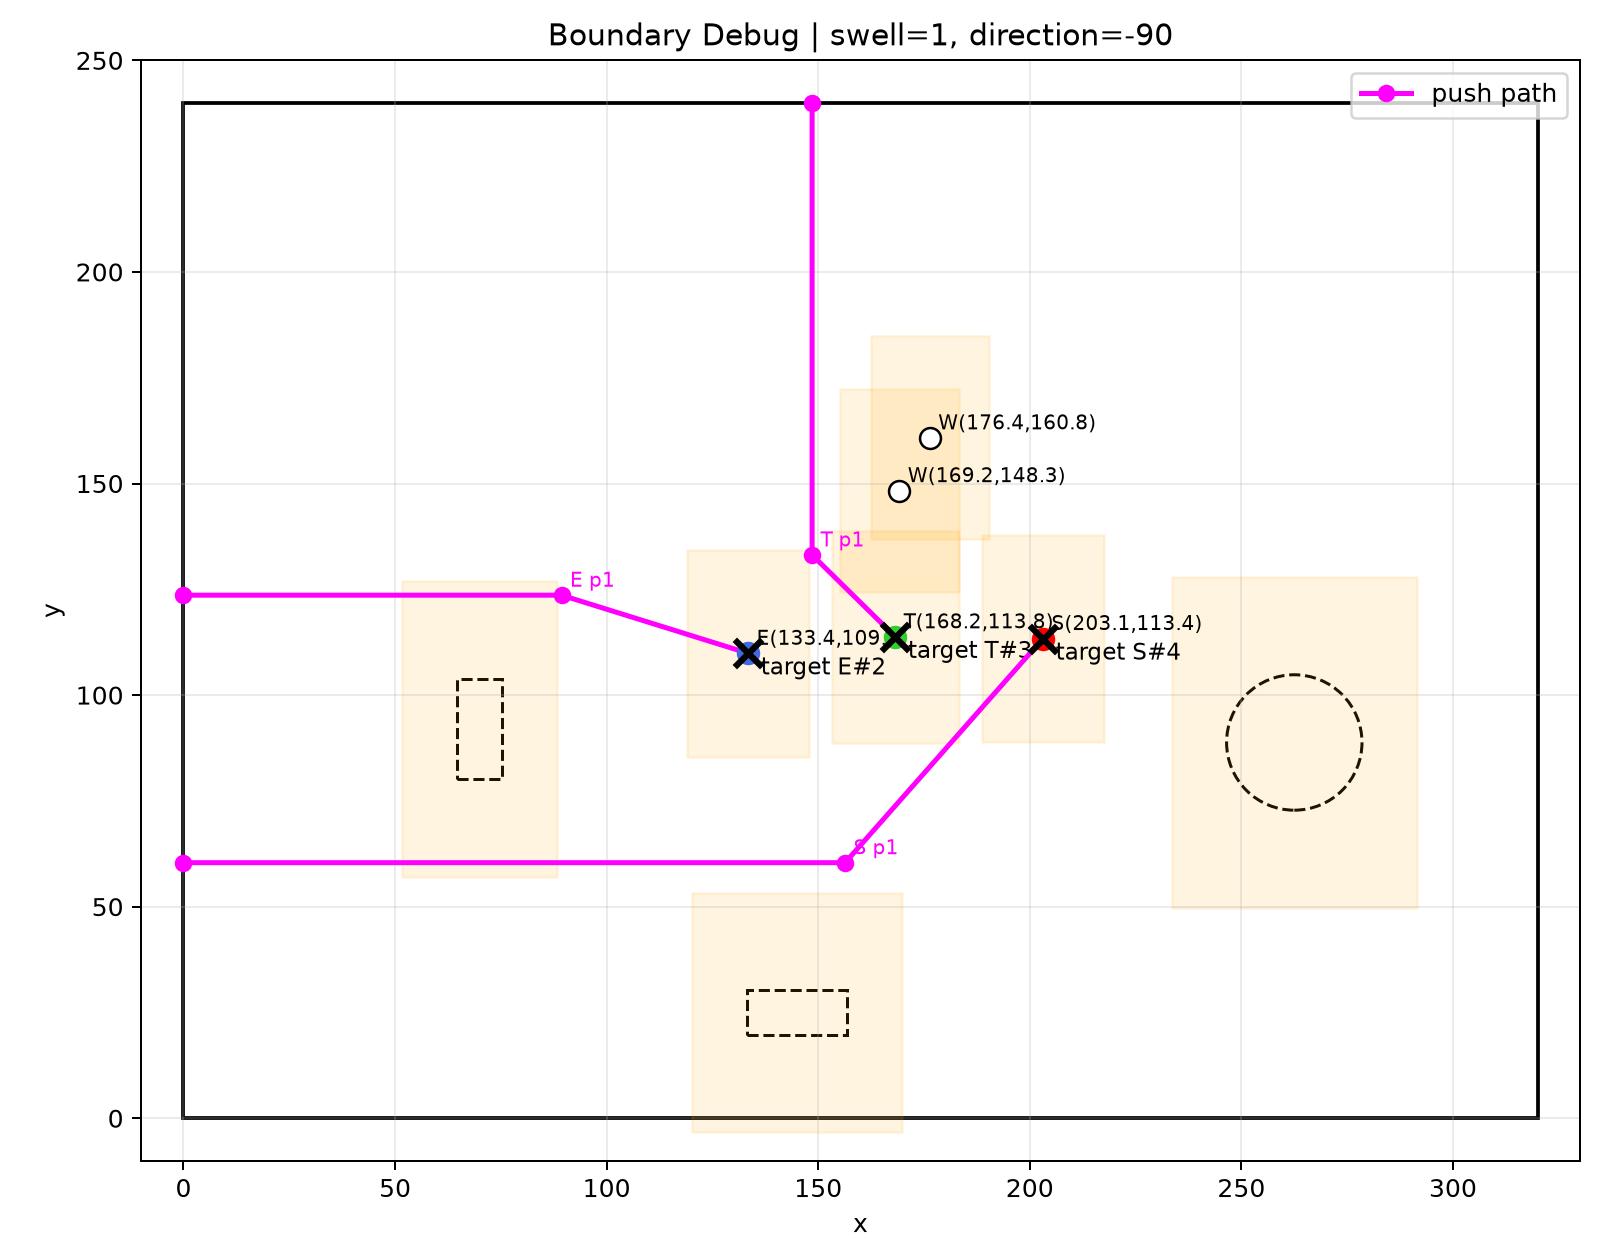
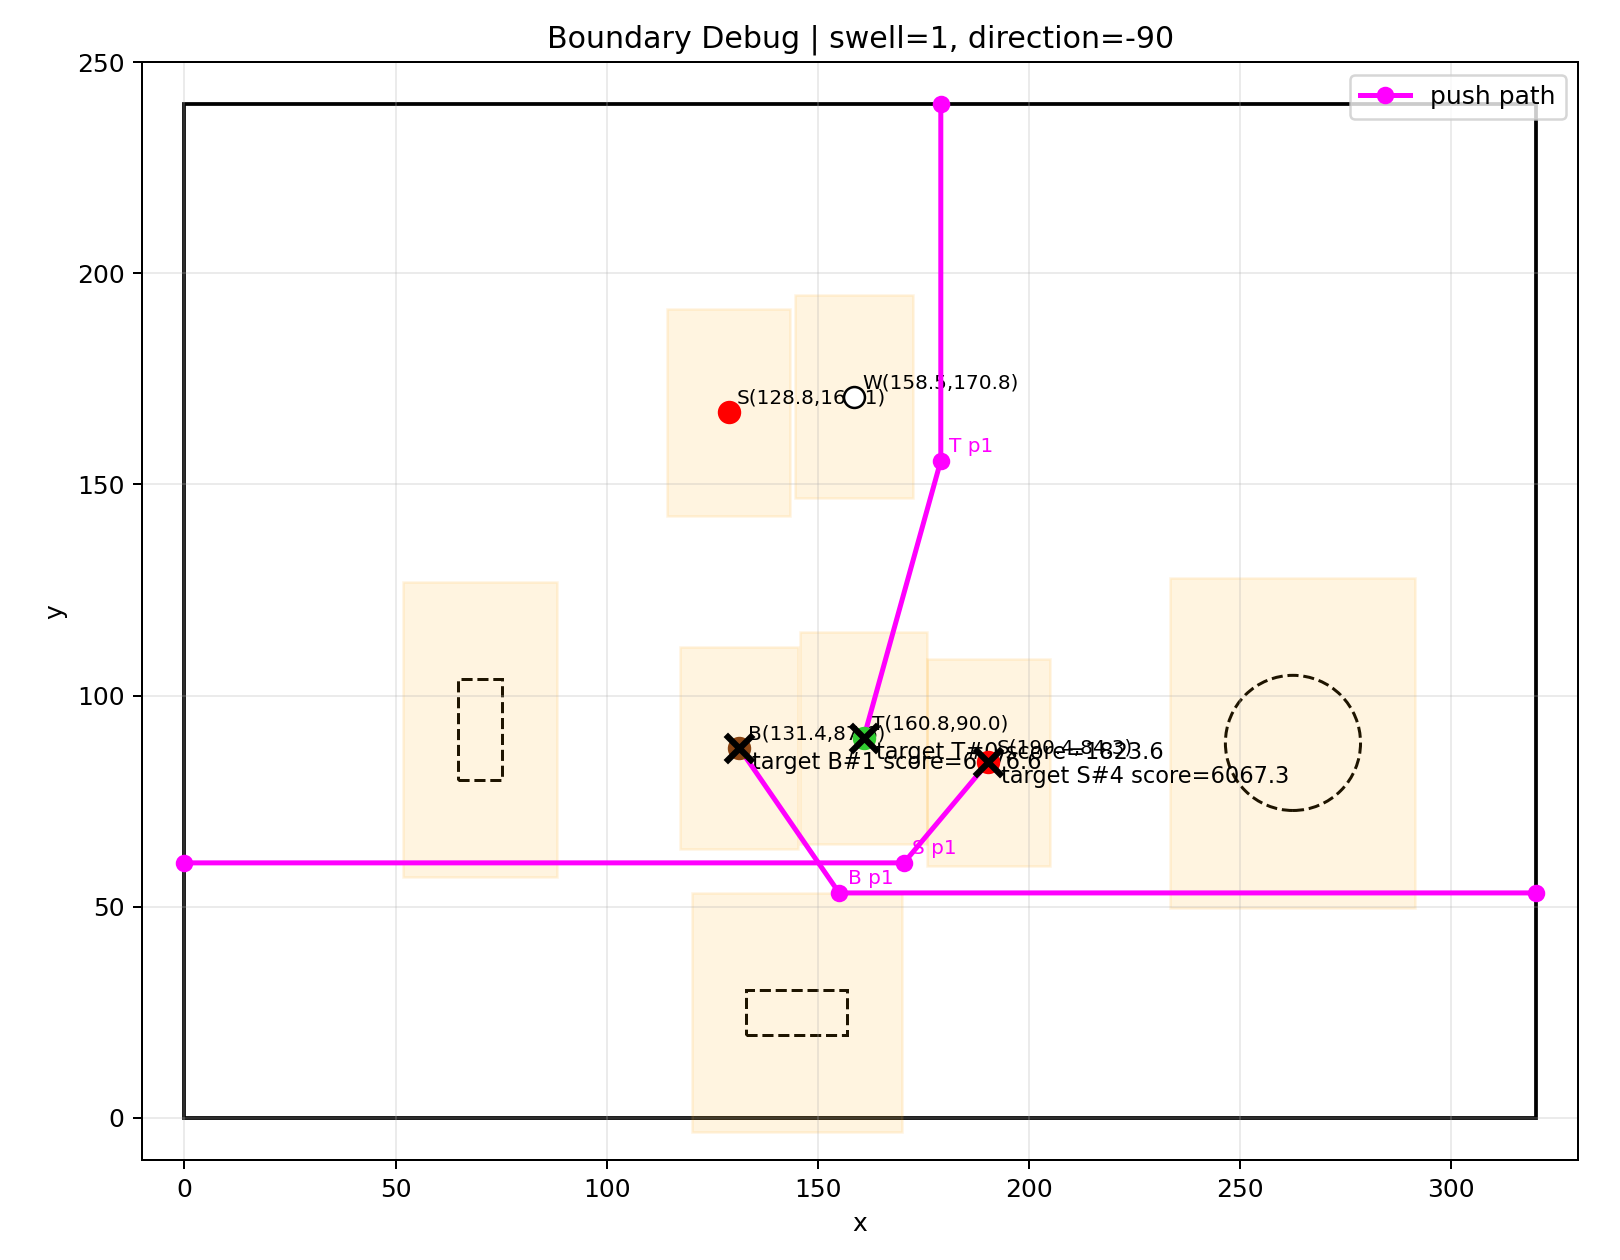
Refactor code structure for improved readability and maintainability

diff --git a/slave_car/user_main.py b/slave_car/user_main.py
@@ -71,6 +71,11 @@ state2 = switch2.value()
 # 构造输入电压分压检测电路接口
 power_adc = ADC('B27')
 
+# 定时器初始化
+pit1 = ticker(1)
+pit2 = ticker(2)
+pit3 = ticker(3)
+
 """蜂鸣器初始化"""
 beep = Pin('D24', Pin.OUT, value = False)
 
@@ -271,6 +276,8 @@ def slave_start():
                 my_car.x_current = plan_data.fixed_point[0][0]
                 my_car.y_current = plan_data.fixed_point[0][1]
                 my_car.now_yaw = 0.0
+                # 停止定时器2
+                pit2.stop()
 
 # 调试电机速度环pid函数
 def show_speed_PID_test():
@@ -496,24 +503,23 @@ def time_pit2_handler(time):
 
 # 定时器1初始化（中断回调函数在 ant_motor 中）
 def pit1_start():
-    global imu_data
-    pit1 = ticker(1)
-    pit1.capture_list(encoder_ul, encoder_ur, encoder_md, imu)
+    global imu_data, pit1
+    pit1.capture_list(imu, encoder_ul, encoder_ur, encoder_md)
     # 进行IMU零漂校准并将imu_data与定时器1的底层采集绑定
     pose_data.init_bias()
     pit1.callback(time_pit1_handler)
-    pit1.start(my_flash_sys.find_value("motor_control_T"))#设置电机定时器周期
-    
+    pit1.start(my_flash_sys.find_value("motor_control_T"))
+
 # 定时器2初始化（中断回调函数在 ant_menu 中）
 def pit2_start():
-    pit2 = ticker(2)
-    pit2.capture_list(key)
+    global pit2
     pit2.callback(time_pit2_handler)
+    pit2.capture_list(key)
     pit2.start(my_flash_sys.find_value("uart_and_menu_T"))
 
 # 定时器3初始化（中断回调函数在 ant_plan 中）
 def pit3_start():
-    pit3 = ticker(3)
+    global pit3
     pit3.callback(time_pit3_handler)
     pit3.start(my_flash_sys.find_value("plan_calculate_T"))
 

diff --git a/main_car/user_main.py b/main_car/user_main.py
@@ -292,6 +292,8 @@ def main_start():
                 my_car.x_current = plan_data.fixed_point[0][0]
                 my_car.y_current = plan_data.fixed_point[0][1]
                 my_car.now_yaw = 0.0
+                # 停止定时器2
+                pit2.stop()
 
 spin_angle = 90.0
 def test_spin():
@@ -541,4 +543,3 @@ while True:
         break
 
     gc.collect()
-
